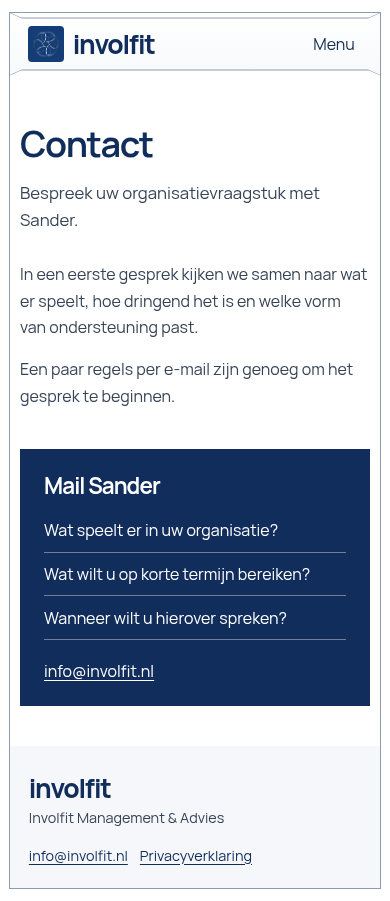
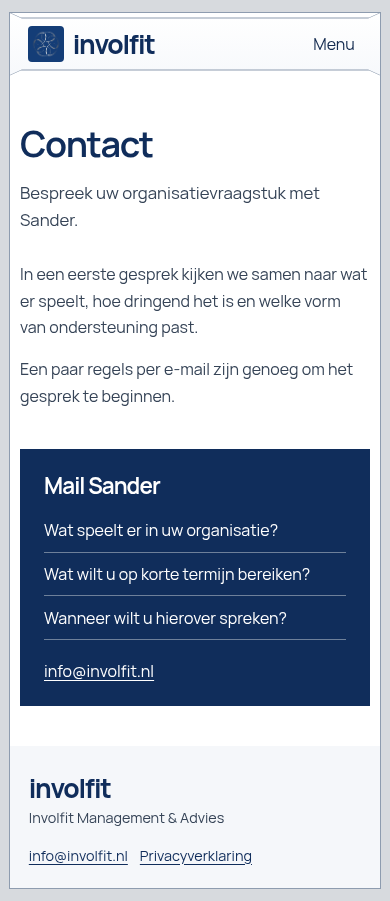
Add silver-gray surround to the Involfit page frame

Changed region(s): [[0.0, 0.0, 1.0, 1.0]]

diff --git a/projects/involfit/public/site.css b/projects/involfit/public/site.css
@@ -10,6 +10,7 @@
   --frame-width: min(calc(100% - 2 * clamp(.55rem, 1.8vw, 1.75rem)), 86rem);
   --frame-line: #8e9caf;
   --frame-offset: .75rem;
+  --frame-surround: #d7dade;
 }
 
 * { box-sizing: border-box; }
@@ -17,6 +18,8 @@ body {
   position: relative;
   margin: 0;
   padding-block: var(--frame-offset);
+  background: linear-gradient(#fff, #fff) center /
+    var(--frame-width) calc(100% - 2 * var(--frame-offset)) no-repeat var(--frame-surround);
   min-height: 100vh;
   display: flex;
   flex-direction: column;
